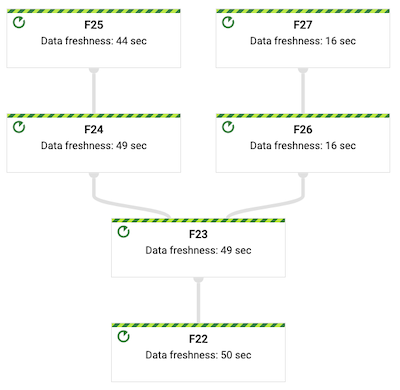
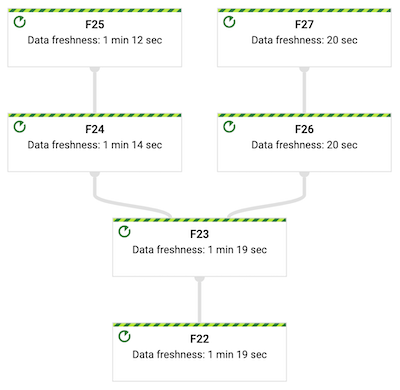
Beam SQL iter5

diff --git a/_posts/2022-09-14-beam-sql.md b/_posts/2022-09-14-beam-sql.md
@@ -269,8 +269,6 @@ But for production deployment I would prefer
 [gcloud dataflow sql query](https://cloud.google.com/sdk/gcloud/reference/dataflow/sql/query) command or
 [DataflowStartSqlJobOperator](https://airflow.apache.org/docs/apache-airflow-providers-google/stable/operators/cloud/dataflow.html#dataflow-sql) Apache Airflow operator.
 
-Unfortunately I could manage deployment using `gcloud command`:
-
 ```bash
 $ gcloud dataflow sql query \
   --job-name=marcin-atm22-gcloud \
@@ -328,7 +326,8 @@ job:
   startTime: '2022-08-12T10:11:24.261616Z'
 ```
 
-After a few minutes I've got the following error on StackDriver console:
+Unfortunately I could manage deployment using `gcloud command`:
+After a few minutes I've got the following Dataflow job error on StackDriver console:
 
 ```
 com.google.cloud.dataflow.sqllauncher.BadTemplateArgumentsException: Error in SQL query: Syntax error: Expected ")" or "," but got "<" [at 2:73]
@@ -355,6 +354,9 @@ Caused by: com.google.zetasql.SqlException: Syntax error: Expected ")" or "," bu
 
 It looks that the query parser is not able to parse external table definition for the Pubsub topic.
 Checkmate!
+
+If you know how to run the query with external table definitions using `gcloud dataflow sql query`, please let me know.
+{: .notice--info}
 
 ## Data generator
 
@@ -409,7 +411,6 @@ Generator sets `ts` attribute for each published message based on event time.
 Using this attribute Dataflow runner is able to track data freshness in the stream!
 {: .notice--info}
 
-
 Start data generators for topics `stream-1` and `stream-2`:
 
 ```
@@ -435,7 +436,7 @@ Configure Beam SQL to use Direct runner again:
 No rows affected (0.017 seconds)
 ```
 
-Try to execute SQL query on Pubsub topics, you should get a decoded payload printed on the console.
+Try to execute SQL query on Pubsub topics, you should get a decoded sensor payload printed on the console.
 
 ```shell
 0: BeamSQL> SELECT current_timestamp, event_timestamp, stream1.payload.ts, stream1.payload.val FROM stream1 LIMIT 5;
@@ -469,13 +470,13 @@ It should look like the graph presented below:
 
 ![Dataflow logical graph](/assets/images/beam_sql_logical_graph.png)
 
-* IO source steps for Pubsub subscriptions (424, 429)
-* Calculation steps for decoding payload (579, 586)
-* Aggregation steps for windowing (581, 588)
-* Calculation steps for calculating averages (583, 590)
-* Co GBK (Group By Key) step for joining streams (592)
-* Final results calculation step (594)
-* IO sink step for saving results to BigQuery table (594)
+* IO source for Pubsub subscriptions (steps: 424, 429)
+* Calculation for decoding payload (steps: 579, 586)
+* Aggregation for windowing (steps: 581, 588)
+* Calculation for averages (steps: 583, 590)
+* Co GBK (Group By Key) for joining streams (step 592)
+* Calculation final results (step 594)
+* IO sink for saving results to BigQuery table (step 594)
 
 Dataflow optimizes the logical graph into physical execution graph.
 As you can see some steps are fused together but the overall shape of the graph stays unchanged.
@@ -508,49 +509,62 @@ Finally, examine the results generated by the job by querying BigQuery table:
 +---------------------+---------------------+---------------------+------------+---------------+----------+
 ```
 
-* The results are calculated based on the readings emitted between `19:07:10` (inclusive)  and `19:07:15` (exclusive). 
+* The results are calculated based on the sensor readings emitted between `19:07:10` (inclusive)  and `19:07:15` (exclusive). 
 * `INSERT INTO results SELECT ...` statement was calculated at `19:07:43`, 28 seconds after end of the window.
 * Because Dataflow data freshness for the latest step `F22` is 31 seconds, it means that the last step takes around `31 - 28 = 3` seconds.
 
 ## Late data
 
 Let's simulate late data from a phantom sensor.
-Start second generator for `stream-2` topic but with configured delay of 30 seconds:
+Start second generator for `stream-2` topic but with configured delay of 60 seconds:
 
 ```shell
-$ python generator.py --topic projects/sc-9366-nga-dev/topics/marcin-atm22-stream-2 --delay 30
+$ python generator.py --topic projects/sc-9366-nga-dev/topics/marcin-atm22-stream-2 --delay 60
 ```
 
-Examine execution graph for data freshness again:
+Examine execution graph again. 
+Reported data freshness for step `F25` is now 1 min 12 secs 
+but there is no impact for step `F27` where data freshness stays unchanged:
 
 ![Dataflow execution graph](/assets/images/beam_sql_execution_graph_2.png)
 
-TODO: show watermarks!
+Compare the reported watermarks for steps `F25` and `F27`.
+The watermark for step `F25` is around minute behind the watermark for step `F27`:
 
-* Dataflow recognized late data and hold watermark for one of the input stream.
-  Reported data freshness is now ~40-50 seconds.
-* Moreover, the watermark is propagated downstream. 
-  The window might be finalized only if data from both streams has been processed. 
+![Dataflow step F25 watermark](/assets/images/beam_sql_watermark_F25.png)
 
-TODO: better explanation
+![Dataflow step F27 watermark](/assets/images/beam_sql_watermark_F27.png)
 
-Examine results:
+Finally, examine the results generated by the job by querying BigQuery table:
 
 ```shell
-TODO: results with higher delay_secs
+0: BeamSQL> SELECT
+. . . . . >   window_start,
+. . . . . >   window_end,
+. . . . . >   created_at,
+. . . . . >   TIMESTAMPDIFF(SECOND, created_at, window_end) AS delay_secs,
+. . . . . >   samples AS no_of_samples,
+. . . . . >   ROUND(avg_diff, 2) AS avg_diff
+. . . . . > FROM results
+. . . . . > ORDER BY window_end DESC
+. . . . . > LIMIT 1;
++---------------------+---------------------+---------------------+------------+---------------+----------+
+| window_start        | window_end          | created_at          | delay_secs | no_of_samples | avg_diff |
++---------------------+---------------------+---------------------+------------+---------------+----------+
+| 2022-08-08 20:07:15 | 2022-08-08 20:07:20 | 2022-08-08 20:08:43 | -83        | 15            | 0.21     |
++---------------------+---------------------+---------------------+------------+---------------+----------+
 ```
 
-For larger throughput you could also observe, that Dataflow runner slows down the consumption from up-to-date subscription.
-It does not make any sense to allocate resources for the data received from the up-to-date sensors 
-if the results will be only calculated when late data finally arrive.
-The late data drives the throughput and latency of the whole job.
+* Dataflow recognized late data and hold watermark for one of the input stream.
+* The results are correctly calculated based on 15 samples from all three sensors. 
+* Moreover, the oldest watermark is propagated downstream through the pipeline and the overall latency increases. 
 
+## Back pressure and tracking subscriptions
+
+For larger throughput you could also observe, that Dataflow runner slows down the consumption from up-to-date subscription if data in another stream is late.
+It does not make any sense to allocate job resources for the data received from the up-to-date sensors 
+if the computation must wait for late data.
 Streaming runner must provide some kind of back-pressure mechanism to align the processing to the data freshness.
-{: .notice--info}
-
-## Tracking subscription
-
-TODO: better explanation
 
 How Dataflow is able to estimate data freshness if it stops consuming data due to lateness in another sources?
 Dataflow creates additional subscription just for event time tracking.
@@ -558,41 +572,81 @@ For our SQL pipeline there are four subscriptions instead of two!
 
 ![Dataflow tracking subscriptions](/assets/images/beam_sql_tracking_subscription.png)
 
-Tracking subscriptions double Pubsub Message Delivery costs.
-Why have we to pay for the whole message delivery if only timestamp attribute is enough for tracking? I don't know.
+Tracking subscriptions double Pubsub message delivery costs.
+Why we have to pay for the whole message delivery if timestamp attribute is enough for tracking? I don't know.
 {: .notice--info}
 
 ## Missing data
 
-TODO:
+Move to the most surprising part of the blog post.
+Stop all generators for `stream-2` topic, and watch watermark metric for step `F25`:
 
-Stop all generators for `stream-2` topic, and watch the execution graph again:
+![Dataflow step F25 watermark](/assets/images/beam_sql_watermark_F25_1.png)
 
-1. The watermark of the job is hold on the time of the latest published event in the `stream-2`
-2. The data freshness is decreasing
-3. But after ~3 minutes the magic happens, the watermark is released again and follow the time of the events in the `stream-1`. 
+1. The watermark of the job is hold on the time of the latest published event in the `stream-2`.
+2. But after ~3 minutes the magic happens, the watermark is released again and follow the time of the events in the `stream-1`. 
    Data freshness for both streams are the same (~10-20 seconds).
+3. There is no data loss, all sensor readings from the period when the watermark was hold will be calculated perfectly.
 
-You should observe similar results:
-
-```
-+---------------------+---------------------+---------------------+------------+---------------+----------+
-| window_start        | window_end          | created_at          | delay_secs | no_of_samples | avg_diff |
-+---------------------+---------------------+---------------------+------------+---------------+----------+
-| 2022-08-08 19:07:10 | 2022-08-08 19:07:15 | 2022-08-08 19:07:43 | -28        | 10            | 0.34     |
-| 2022-08-08 19:07:05 | 2022-08-08 19:07:10 | 2022-08-08 19:07:36 | -26        | 10            | 0.12     |
-| 2022-08-08 19:07:00 | 2022-08-08 19:07:05 | 2022-08-08 19:07:32 | -27        | 10            | -0.06    |
-| 2022-08-08 19:06:55 | 2022-08-08 19:07:00 | 2022-08-08 19:07:30 | -30        | 10            | -0.23    |
-| 2022-08-08 19:06:50 | 2022-08-08 19:06:55 | 2022-08-08 19:07:22 | -27        | 10            | 0.25     |
-+---------------------+---------------------+---------------------+------------+---------------+----------+
-```
-
-If there is no traffic on the Pubsub topic for ~3 minutes, Dataflow assumes that the stream is fully up-to-date and release the watermark.
+If there is no traffic on the Pubsub topic for ~3 minutes, Dataflow assumes that the stream is fully up-to-date and releases the watermark.
 {: .notice--info}
 
-## Complete results from the experiment
+You should observe similar results for the moment when the watermark is released:
 
-TODO: datastudio raport
+```
++---------------------+---------------------+---------------------+------------+---------------+----------+
+| created_at          | window_start        | window_end          | delay_secs | no_of_samples | avg_diff |
++---------------------+---------------------+---------------------+------------+---------------+----------+
+| 2022-08-16T07:38:02 | 2022-08-16T07:36:40 | 2022-08-16T07:36:45 | 77         | 15            | -0.16    |
+| 2022-08-16T07:38:09 | 2022-08-16T07:36:45 | 2022-08-16T07:36:50 | 79         | 15            |  0.08    |
+| 2022-08-16T07:40:07 | 2022-08-16T07:36:50 | 2022-08-16T07:36:55 | 192        | 14            | -0.26    |
+| 2022-08-16T07:40:11 | 2022-08-16T07:37:45 | 2022-08-16T07:37:50 | 141        | 10            |  0.18    |
+| 2022-08-16T07:40:11 | 2022-08-16T07:37:10 | 2022-08-16T07:37:15 | 176        | 10            | -0.04    |
+| 2022-08-16T07:40:11 | 2022-08-16T07:37:40 | 2022-08-16T07:37:45 | 146        | 10            | -0.26    |
+| 2022-08-16T07:40:11 | 2022-08-16T07:37:25 | 2022-08-16T07:37:30 | 161        | 10            | -0.18    |
+(...)
+| 2022-08-16T07:40:14 | 2022-08-16T07:38:30 | 2022-08-16T07:38:35Z | 99        | 5             | 0.47     |
+| 2022-08-16T07:40:14 | 2022-08-16T07:39:15 | 2022-08-16T07:39:20Z | 54        | 5             | 0.31     |
++---------------------+---------------------+---------------------+------------+---------------+----------+
+```
+
+* At `07:28:09` the results for the window `[07:36:45, 07:36:50)` was calculated based on data from all three sensors.
+* There is a processing time gap to the `07:40:07` when Dataflow released the watermark.
+  The total delay is about 3 minutes, 192 seconds to be precise). 
+* From `07:40:11` Dataflow has back-filled the gap with data collected from `stream-1` and `stream-2` when the watermark was hold.
+* From `07:40:14` there are only 5 samples from `stream-1`, there is no data in `stream-2`.
+* Do not expect any order when Dataflow back-fills the results.
+  The results for window `[07:37:45, 07:37:50)` was produced before results for window `[07:37:10, 07:37:15)`.
+
+## Complete results from the experiment (not finished)
+
+You could be a little lost right now, the reasoning about the streaming pipelines is a demanding task :)
+Let me show data visualization for the whole experiment.
+
+![Dataflow experiment timeline](/assets/images/beam_sql_timeline_1.png)
+
+1. **Phase 1** initial back-fill
+    * When Dataflow job starts, it creates Pubsub subscriptions at the very beginning
+    * When all Dataflow components are ready, the job quickly consumes all events from the subscriptions
+    * The backlog was consumed almost immediately, try to figure out why the delay is decreasing steadily :) 
+2. **Phase 2** both streams are up-to-date
+    * The pipeline latency is almost constant
+    * Each window is calculated from 10 samples (5 samples per sensor)
+    * But sometimes one sample is missing, I'm almost 100% sure that the generator is not perfect, simple sleep() call between samples
+3. **Phase 3** second stream contains late data from the third "phantom" sensor
+    * There is additional latency in the pipeline
+    * The latency is super constant, it comes from the input data lateness, not from the pipeline technical fluctuations
+    * Each window is calculated from 15 samples (5 samples per sensor)
+4. **Phase 4** missing `stream-2` back-fill - part 1
+    * TODO
+5. **Phase 5** missing `stream-2` back-fill - part 2
+    * TODO
+6. **Phase 6** single stream
+    * TODO
+
+Timeline in processing time domain:
+
+![Dataflow experiment timeline](/assets/images/beam_sql_timeline_2.png)
 
 ## Cleaning up
 
